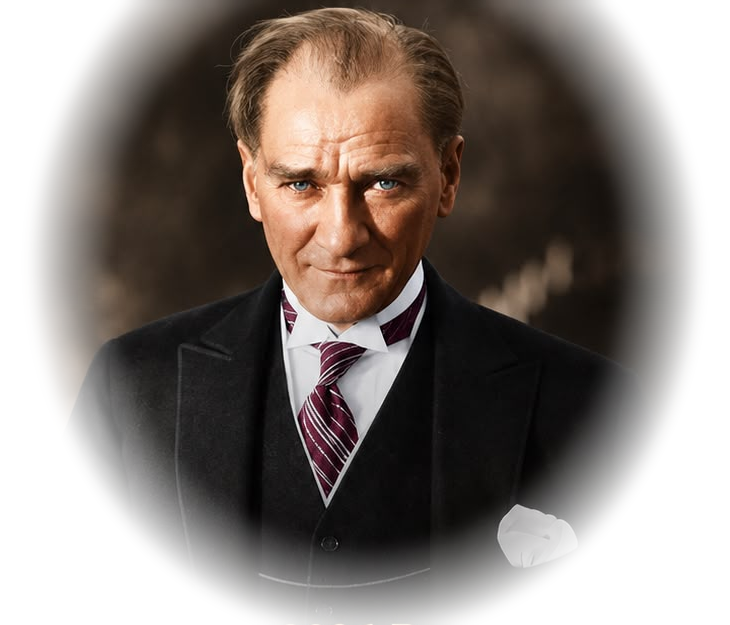
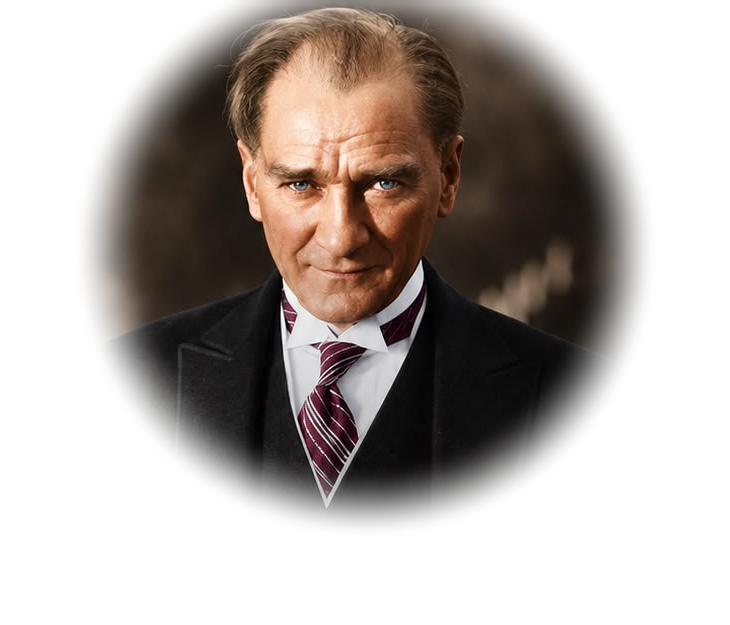
Fix mobile header button overlap and feather Atatürk backdrop
Header call button no longer stretches to full width on phones.
Atatürk cutout now fades out on all edges (no hard top edge), and
the hero gradients are balanced left/right.

Claude-Session: https://claude.ai/code/session_011GjMz5P4dkVJ6ri6Ceqmrk

diff --git a/assets/css/style.css b/assets/css/style.css
@@ -37,7 +37,7 @@ a{color:var(--blue-500)}
   padding:12px 22px;background:rgba(255,255,255,.92);backdrop-filter:blur(8px);
   border-bottom:1px solid rgba(16,30,107,.08);
 }
-.brand{display:flex;align-items:center;gap:12px;text-decoration:none;color:var(--navy-900)}
+.brand{min-width:0;display:flex;align-items:center;gap:12px;text-decoration:none;color:var(--navy-900)}
 .brand img{border-radius:50%;background:#fff}
 .brand span{font-family:var(--font-head);font-weight:800;font-size:1.35rem;line-height:1}
 .brand small{display:block;font-family:var(--font-body);font-weight:700;font-size:.8rem;letter-spacing:.12em;text-transform:uppercase;color:var(--blue-500);margin-top:4px}
@@ -57,7 +57,7 @@ a{color:var(--blue-500)}
 .btn-primary{background:var(--yellow);color:var(--navy-950);box-shadow:0 12px 26px -10px rgba(255,200,61,.8)}
 .btn-primary:hover{background:#FFD65C}
 .btn-ghost{background:rgba(255,255,255,.85);color:var(--navy-900);border-color:var(--navy-900)}
-.btn-call{background:var(--navy-900);color:#fff;padding:12px 20px;font-size:1rem;box-shadow:var(--shadow-blue)}
+.btn-call{background:var(--navy-900);color:#fff;padding:12px 20px;font-size:1rem;box-shadow:var(--shadow-blue);width:auto;flex:0 0 auto}
 .btn-light{background:#fff;color:var(--navy-900)}
 
 /* ===== Hero (Atatürk centered, polaroids around) ===== */
@@ -67,8 +67,8 @@ a{color:var(--blue-500)}
   padding:90px 22px 110px;
   background:
     radial-gradient(900px 500px at 50% 0%, #FFFFFF 0%, transparent 70%),
-    radial-gradient(700px 600px at 0% 100%, var(--blue-100) 0%, transparent 70%),
-    radial-gradient(700px 600px at 100% 100%, var(--yellow-soft) 0%, transparent 70%),
+    radial-gradient(640px 520px at 0% 100%, var(--blue-100) 0%, transparent 70%),
+    radial-gradient(640px 520px at 100% 100%, var(--blue-100) 0%, transparent 70%),
     var(--cream);
 }
 .hero-bg{position:absolute;inset:0;display:flex;align-items:flex-end;justify-content:center;pointer-events:none;z-index:0}
@@ -198,7 +198,7 @@ a{color:var(--blue-500)}
   .brand span{font-size:1.1rem}
   .btn{padding:15px 22px;font-size:1.05rem;width:100%;justify-content:center}
   .cta-row{width:100%}
-  .btn-call{padding:10px 14px}
+  .btn-call{padding:10px 14px;width:auto}
   .p1,.p2,.p5,.p6{opacity:.45}
 }
 @media (prefers-reduced-motion:reduce){
